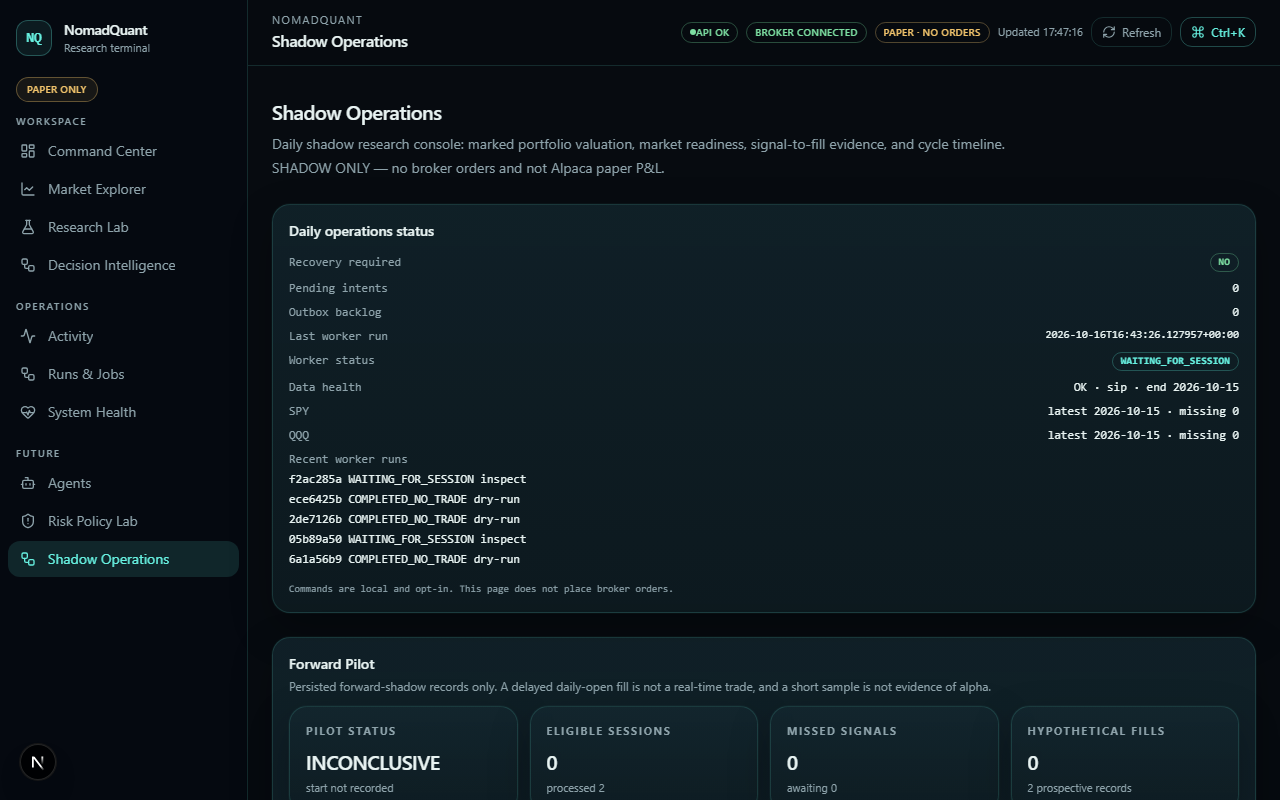
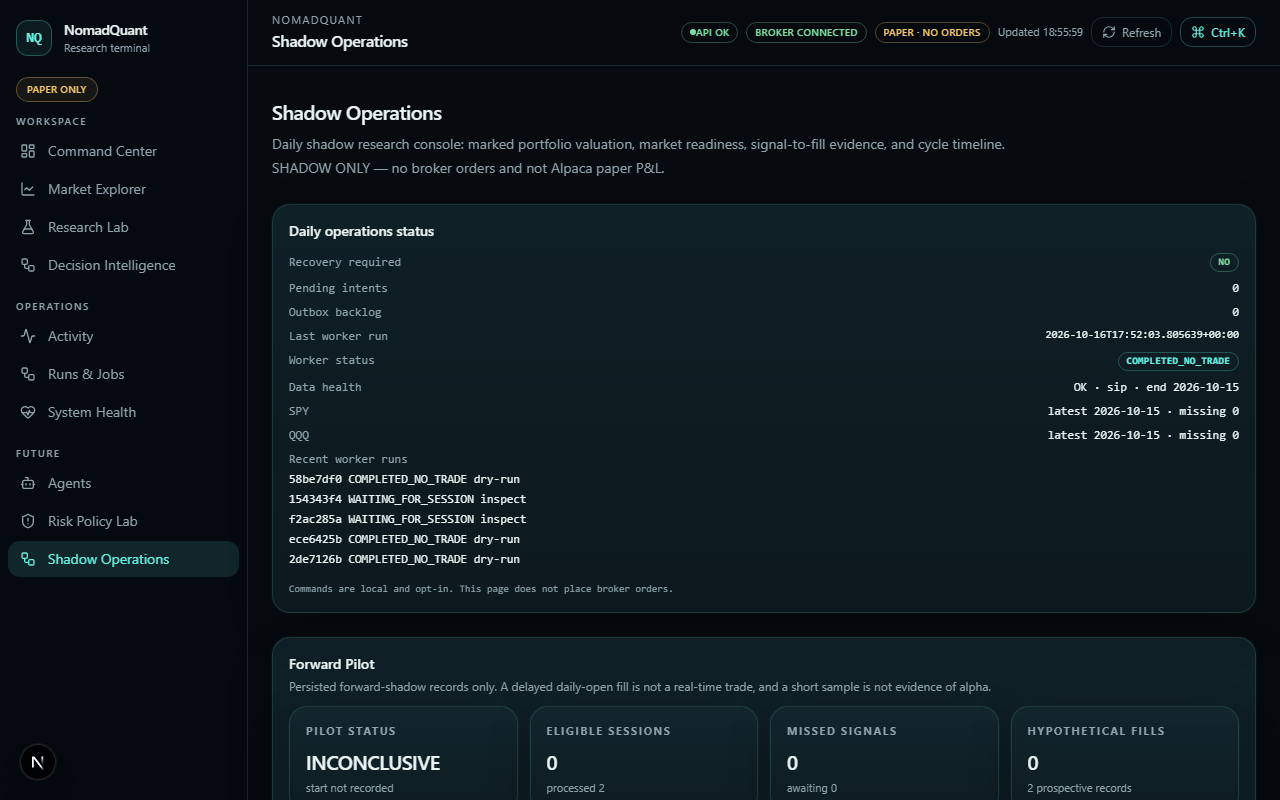
Mark the local research system as release candidate 1.0.0-rc.1.
Document the supervised daily workflow, the remaining blockers, and the pilot states the dashboard now shows.

Changed region(s): [[0.2188, 0.5938, 0.4062, 0.7188], [0.875, 0.4062, 0.9688, 0.4688], [0.8125, 0.0312, 0.8438, 0.0625]]

diff --git a/apps/web/components/ForwardPilot.tsx b/apps/web/components/ForwardPilot.tsx
@@ -60,7 +60,9 @@ export function ForwardPilot() {
             <div>
               <dt className="text-[var(--muted)]">Verification</dt>
               <dd>
-                pass {data.verified_cycles ?? 0} · fail {data.verification_failures ?? 0} · reconcile{" "}
+                {data.verification_sample?.passed ?? data.verified_cycles ?? 0} of{" "}
+                {data.verification_sample?.checked ?? 0} recent cycles passed · history{" "}
+                {data.verification_sample?.history_cycles ?? "—"} · reconcile{" "}
                 {data.reconciliation_ok ? "ok" : "not ok"}
               </dd>
             </div>

diff --git a/apps/web/lib/api.ts b/apps/web/lib/api.ts
@@ -1818,6 +1818,14 @@ export type ForwardPilotReport = {
   reconciliation_ok?: boolean;
   verified_cycles?: number;
   verification_failures?: number;
+  verification_sample?: {
+    checked?: number;
+    passed?: number;
+    failed?: number;
+    limit?: number;
+    history_cycles?: number;
+    note?: string;
+  };
   equity_usd?: string | null;
   cash_usd?: string;
   hypothetical_fills?: number;
@@ -1887,6 +1895,7 @@ export type QualityReport = {
     sessions_missed?: number;
     sample?: string;
     readiness?: string;
+    state?: string;
     reasons?: string[];
   };
   verifier?: {

diff --git a/apps/web/components/Overview.tsx b/apps/web/components/Overview.tsx
@@ -124,7 +124,7 @@ export function Overview() {
             <div>
               <dt className="text-[var(--muted)]">Forward pilot</dt>
               <dd>
-                {pilot.data?.supervision?.readiness ?? "—"}
+                {pilot.data?.supervision?.state ?? pilot.data?.supervision?.readiness ?? "—"}
                 {pilot.data?.supervision?.pilot_active ? "" : " · not an active trading system"}
                 {pilot.data?.supervision?.user_decision_required ? " · user decision required" : ""}
               </dd>

diff --git a/apps/web/components/ResearchQuality.tsx b/apps/web/components/ResearchQuality.tsx
@@ -42,7 +42,7 @@ export function ResearchQuality() {
           <div>
             <dt className="text-[var(--muted)]">Pilot readiness</dt>
             <dd>
-              {data.pilot?.readiness ?? "—"}
+              {data.pilot?.state ?? data.pilot?.readiness ?? "—"}
               {(data.pilot?.reasons ?? []).length ? ` · ${(data.pilot?.reasons ?? []).join(", ")}` : ""}
             </dd>
           </div>

diff --git a/src/nomadquant/quality.py b/src/nomadquant/quality.py
@@ -53,6 +53,7 @@ def quality_report(settings: Settings) -> dict[str, Any]:
             "sessions_missed": pilot.get("sessions_missed"),
             "sample": "insufficient" if not pilot.get("hypothetical_fills") else "observing",
             "readiness": (pilot.get("supervision") or {}).get("readiness"),
+            "state": (pilot.get("supervision") or {}).get("state"),
             "reasons": (pilot.get("supervision") or {}).get("reasons"),
         },
         "verifier": cycles,

diff --git a/src/nomadquant/api/app.py b/src/nomadquant/api/app.py
@@ -69,7 +69,7 @@ def create_app(settings: Settings | None = None) -> FastAPI:
 
     app = FastAPI(
         title="NomadQuant",
-        version="0.1.0",
+        version="1.0.0-rc.1",
         lifespan=lifespan,
         docs_url="/docs",
         redoc_url=None,

diff --git a/src/nomadquant/__init__.py b/src/nomadquant/__init__.py
@@ -1,3 +1,3 @@
 """NomadQuant paper-only research and operations foundation."""
 
-__version__ = "0.1.0"
+__version__ = "1.0.0-rc.1"

diff --git a/docs/PAPER_EXECUTION_READINESS.md b/docs/PAPER_EXECUTION_READINESS.md
@@ -176,3 +176,42 @@ These are observed results. They are not a completed forward fill and not a conf
 | Autonomous execution | **Forbidden** |
 
 **No-go for Alpaca paper orders until the remaining rows are closed under a new authorized prompt.**
+
+## Prompt 18 workstation evidence (2026-10-16, about 17:51 UTC)
+
+| Check | Result |
+|-------|--------|
+| Version | `1.0.0-rc.1` candidate for the local research and shadow scope only. |
+| SIP | SPY and QQQ each have 2209 sessions. Latest stored and latest safe session `2026-10-15`. Missing 0 in the warm-up window `2025-09-09` through `2026-10-15`. `2026-10-16` open was not stored. Last successful historical store `2026-10-16T11:00:59Z`. |
+| Entitlement | Historical SIP bars are stored. This run did not query account buying power or the asset fractionable flag. |
+| Ledger | Cash 100, reserved 0, holdings empty, realized 0, version 1. Reconcile `ok=true`. |
+| Cycles | 2 prospective dry-run `no_trade` rows. 0 fills. 0 pending intents. 0 unresolved reservations. |
+| Verification | Recent sample 2 of 2 passed. That sample is not a full-history execution proof, and `no_trade` fill checks stay `NOT_APPLICABLE`. |
+| Pilot | `WAITING_FOR_SESSION`. Clock unset. Worker script present. `pilot_running` false. Not ready to start a fill today because no month-start rebalance is due and the next open is missing. |
+| Daily inspect | `COMPLETED`, worker `WAITING_FOR_SESSION`. Cash stayed 100, version stayed 1. |
+| Daily dry-run | `COMPLETED`, worker `COMPLETED_NO_TRADE`. Reused the existing cycle. Cash stayed 100, version stayed 1. |
+| Shadow-apply | Not run. |
+| Alpaca orders | None. |
+| Ollama | Offline claim benchmark covers five fixed cases and calls no model. A new two-model live review was not run in this pass. |
+
+## Pilot preview and confirmation
+
+`nomadquant-shadow pilot preview` prints capital, holdings, snapshot version, policy hash, data readiness, pending intents, the next signal context, the delayed-hypothetical model, the local files a later apply would touch, the recovery command, and that a committed fill cannot be undone. It sets `mutates_forward_ledger` false.
+
+`nomadquant-shadow pilot confirm --approval HASH` accepts the token only when it equals the hash of the current preview. A mismatch, including any relevant state change, returns `REJECTED` and exit 1. Acceptance prints the worker command and still does not apply.
+
+## Pilot state transitions
+
+| State | When it is used |
+| --- | --- |
+| `NOT_CONFIGURED` | The forward ledger file is absent. |
+| `RECOVERY_REQUIRED` | An interrupted reservation is still active. |
+| `BLOCKED` | Preflight is blocked, the guard refuses application, or reconcile failed. |
+| `WAITING_FOR_DATA` | Required market coverage is incomplete. |
+| `FAILED` | A recorded daily operation failed. |
+| `PENDING_OBSERVATION` | A pending intent exists but its fill bar is not stored, or a rebalance is scheduled without the next open. |
+| `OBSERVING` | The pilot clock has been set. This does not mean a worker process is alive. |
+| `READY_TO_START` | A month-start rebalance is scheduled, the next observation is stored, and the clock has not started. |
+| `WAITING_FOR_SESSION` | Data is complete and no rebalance is scheduled. |
+
+A pending row is not executable by itself. `pilot_running` is true only while `data/shadow_worker.lock` is younger than two hours.

diff --git a/README.md b/README.md
@@ -1,6 +1,6 @@
 # NomadQuant
 
-NomadQuant is a locally hosted, paper-only foundation for algorithmic trading research. It provides configuration locks, a read-only Alpaca paper adapter, a local daily-bar store, an offline Quant Research Lab with verification, and a premium monitoring/research terminal dashboard.
+NomadQuant `1.0.0-rc.1` is a locally hosted, paper-only research and supervised shadow system. It provides configuration locks, a read-only Alpaca paper adapter, a local daily-bar store, an offline Quant Research Lab with verification, and a monitoring dashboard.
 
 It does not place orders. Offline backtests are labeled as simulated research, not broker trading. Nothing in this repository is evidence of profit.
 
@@ -163,12 +163,23 @@ uv run --no-sync python -c "from nomadquant.agents.cli import main; main(['bench
 
 After `uv sync` (stop the API first if Windows locks the scripts), the same commands work as `uv run nomadquant-agent ...`. Inspect results at `http://127.0.0.1:3000/agents`. Reviews are retrospective and never place orders.
 
-## Shadow portfolio (daily cycle)
+## Supervised daily workflow
+
+One workflow. Installation and tests do not apply shadow fills.
+
+| Step | Command | What it may change |
+| --- | --- | --- |
+| Inspect | `uv run nomadquant-shadow daily --mode inspect` | No download, no cash or holdings change, no broker order. Writes a daily log. |
+| Sync + inspect | `uv run nomadquant-shadow daily --mode inspect --sync` | Read-only historical bars into the local market database. No shadow fill. |
+| Dry-run | `uv run nomadquant-shadow daily --mode dry-run` | Signal and risk preview. No cash, holdings, or reservation change. |
+| Supervised shadow-apply | Preview first, then `uv run nomadquant-shadow worker --mode shadow-apply` | Internal ledger only, after you accept the preview hash. No broker order. |
 
 ```powershell
-uv run --no-sync python -c "from nomadquant.shadow.cli import main; main(['cycle','--mode','dry-run'])"
-uv run --no-sync python -c "from nomadquant.shadow.cli import main; main(['status'])"
+uv run nomadquant-shadow pilot preview
+uv run nomadquant-shadow pilot confirm --approval PREVIEW_HASH
 ```
+
+`confirm` checks that the token still matches the preview. It does not apply a fill. A committed simulated fill has no automatic undo. `recover` only releases an interrupted reservation.
 
 Dashboard: `http://127.0.0.1:3000/shadow`. Uses the internal $100 ledger only. No Alpaca orders.
 
@@ -183,7 +194,7 @@ Dashboard: `http://127.0.0.1:3000/strategies`. Verdicts never submit broker orde
 
 ## Suggested next milestone
 
-Explicitly reviewed Alpaca paper-execution gateway with risk enforcement still default-disabled. Do not grant broker order tools to agents.
+Keep the release candidate on the safe daily checks. An Alpaca paper-order gateway stays a separate decision and stays default-disabled. Do not grant broker order tools to agents. See [docs/RELEASE_BLOCKERS.md](docs/RELEASE_BLOCKERS.md).
 
 ## License
 

diff --git a/docs/RELEASE_BLOCKERS.md b/docs/RELEASE_BLOCKERS.md
@@ -1,0 +1,14 @@
+# Release blockers
+
+Version under review: `1.0.0-rc.1`. Scope is the local research and supervised shadow system. This is not authorization to submit broker orders.
+
+Ranked remaining issues, observed on this workstation on 2026-10-16:
+
+1. **The forward pilot is not running.** `pilot status` is `WAITING_FOR_SESSION`. The pilot clock is unset, `pilot_running` is false, and no month-start rebalance is due. `2026-10-16` has no stored open because that session was still open at inspection (about 13:51 America/New_York). Do not start it without an explicit preview hash and a separate `worker --mode shadow-apply`.
+2. **There are no forward fills.** The ledger is cash 100, reserved 0, holdings empty, version 1. Two prospective dry-run `no_trade` cycles exist (2026-10-14 and 2026-10-15). A verifier PASS on those rows is not verified execution economics. The performance sample is inconclusive.
+3. **Daily bars are not real-time executable quotes.** SIP coverage is 2209 sessions each for SPY and QQQ through 2026-10-15, missing 0 in the warm-up window. Fills, if later applied, stay `delayed_hypothetical_daily_open`.
+4. **Research audit remains NOT_EVALUABLE** without a split and dividend point-in-time file. Raw closes are not total returns. The pre-registered hypothesis is unchanged and is not confirmed by the forward sample.
+5. **Broker capability is documentary.** Profile `alpaca-readonly-2026-10-16-rc1` does not query the paper account or the SPY fractionable flag. No order-submission API is implemented. Paper cash and buying power are not the internal $100 book.
+6. **Duplicate-prevention events are not a persisted counter.** A repeated apply returns the existing cycle in memory. Full-history SQL counts fills, misses, rejections, and daily operations. Verification pass/fail numbers are a recent sample.
+
+Not blockers for this release candidate: chart libraries, new strategies, new models, cloud deployment, and an Alpaca order gateway.

diff --git a/docs/ROADMAP.md b/docs/ROADMAP.md
@@ -68,6 +68,10 @@ Deterministic `RiskEngine` against the internal $100 ledger only. Verdicts are A
 
 Persistent $100 shadow ledger, `nomadquant-shadow cycle`, next-session-open simulated fills, and Shadow Portfolio dashboard. Still no Alpaca order path. Dry-run execution gateway contracts exist for a later milestone.
 
+## Release candidate 1.0.0-rc.1
+
+The local research and shadow scope is frozen. Verifier statuses have distinct exit codes. Quote retrieval time is checked on its own. Pilot readiness names an operational state and does not treat a start timestamp as a running worker. Full-history counts come from SQLite. A pilot preview hash must still match before any later shadow-apply, and preview itself does not mutate the ledger. Remaining limits are listed in [RELEASE_BLOCKERS.md](RELEASE_BLOCKERS.md).
+
 ## Phase 5B — paper order gateway (next, separate decision)
 
 Only after risk enforcement is reviewed: an explicitly disabled-by-default Alpaca paper-execution gateway with reconciliation and idempotency. Never given unrestricted LLM tools.

diff --git a/docs/SECURITY.md b/docs/SECURITY.md
@@ -26,7 +26,7 @@ Set either both Alpaca variables or neither. One without the other is a configur
 
 The live trading host `https://api.alpaca.markets` is rejected, as is any URL whose scheme, host, port, path, query, or credentials differ from the paper URL. The string `live` anywhere in the URL is rejected. The Alpaca client is constructed with `paper=True`.
 
-There is no live credential field, no live adapter, and no code path that submits, cancels, or replaces an order.
+There is no live credential field, no live adapter, and no code path that submits, cancels, or replaces an order. `1.0.0-rc.1` keeps those locks. Pilot preview and confirmation are local hash checks. They do not call Alpaca.
 
 ## Disconnected mode
 
